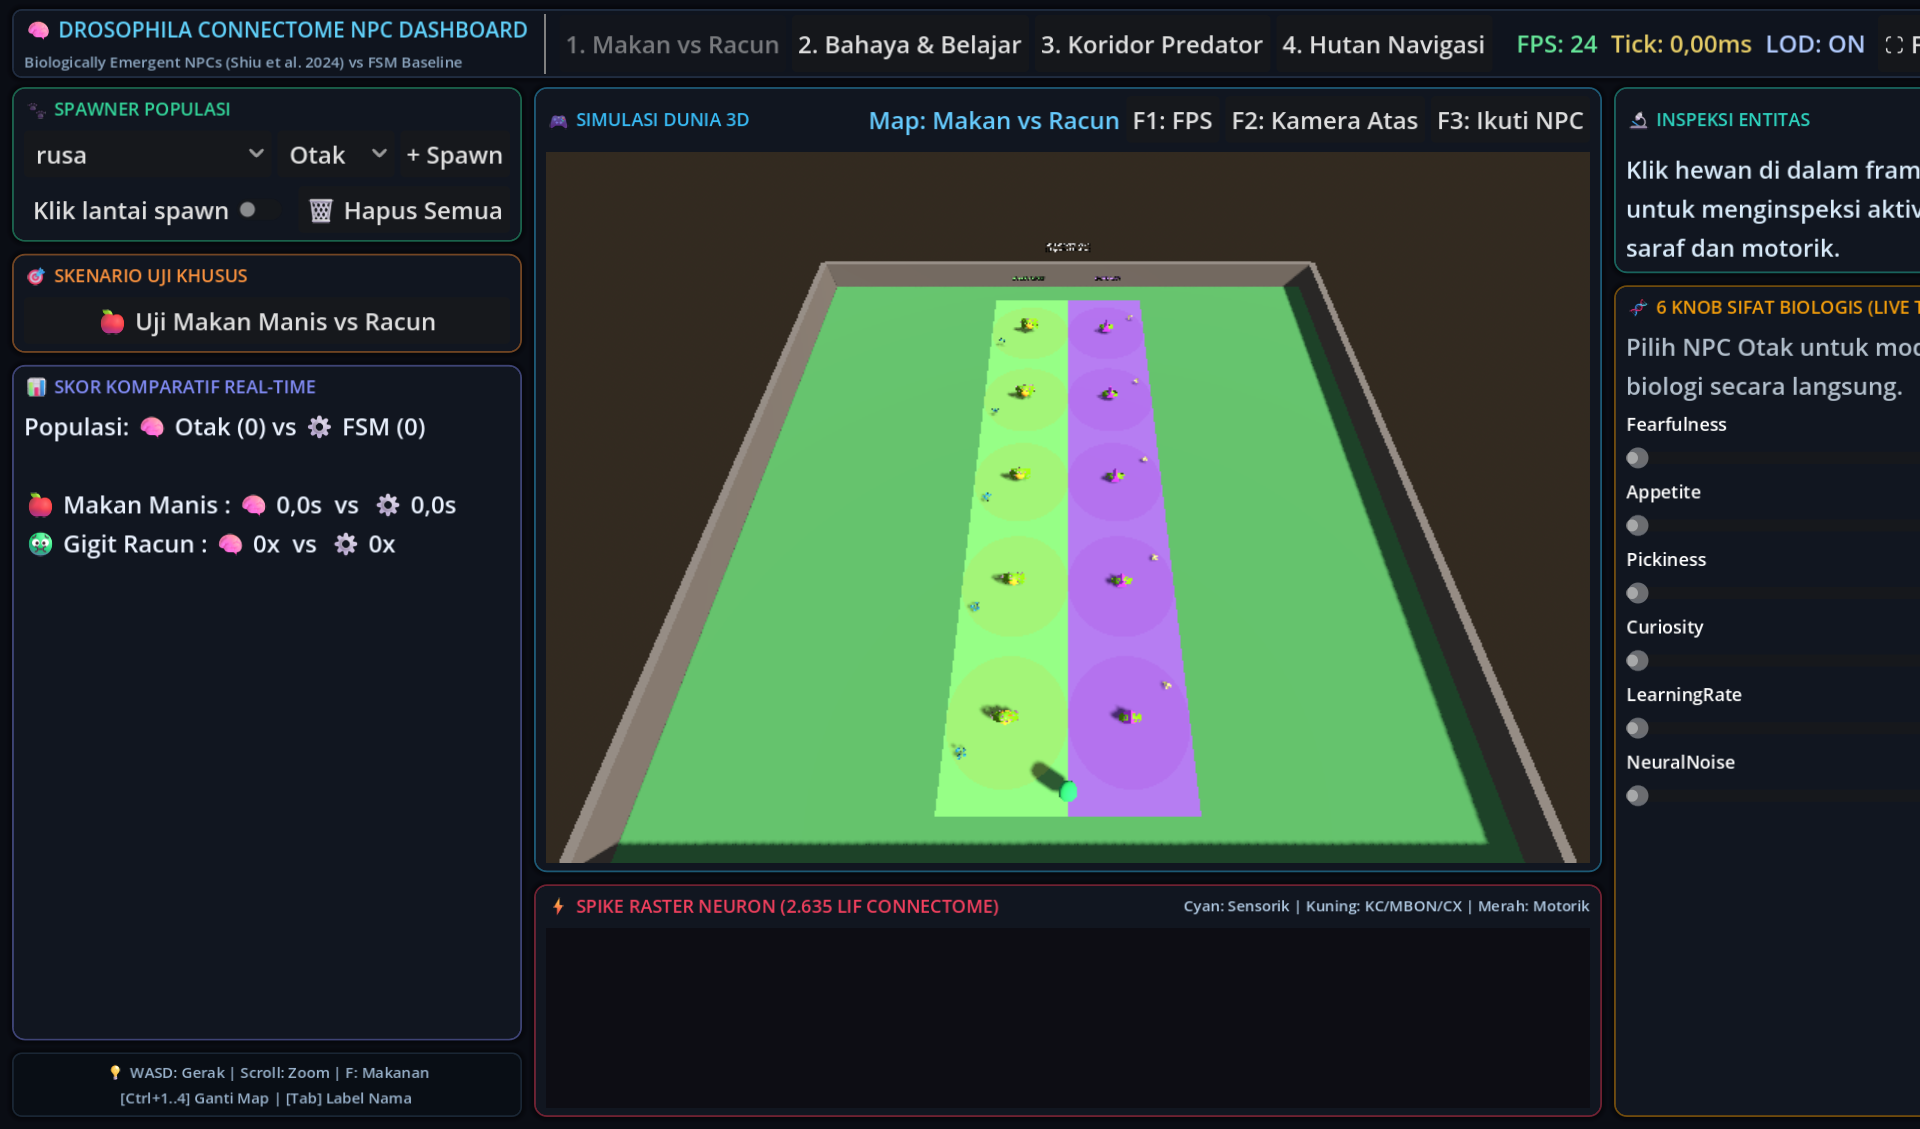
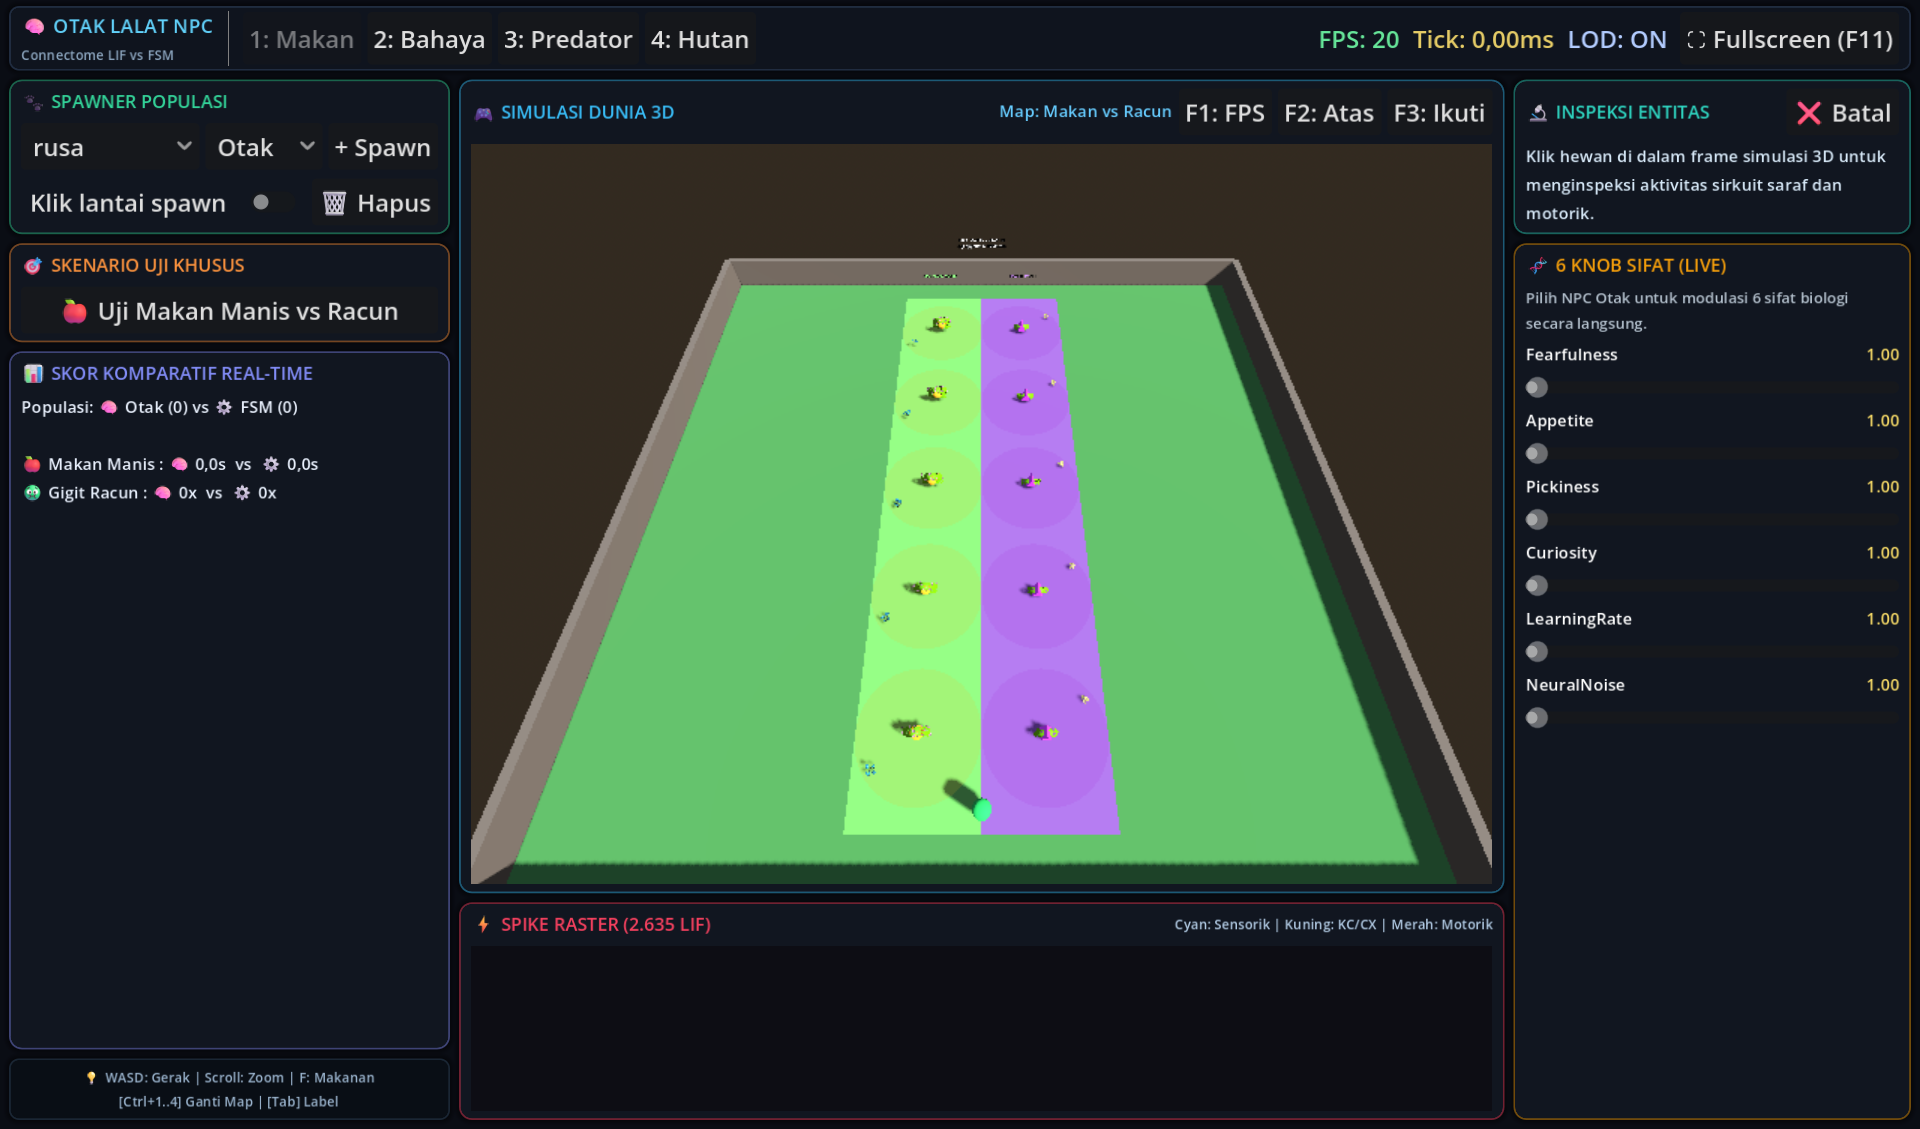
Optimize Bento Grid column widths and padding to eliminate right side cutoff

diff --git a/scripts/UI/Dashboard.cs b/scripts/UI/Dashboard.cs
@@ -53,25 +53,28 @@ public partial class Dashboard : Control
 
         var margin = new MarginContainer();
         margin.SetAnchorsPreset(LayoutPreset.FullRect);
-        margin.AddThemeConstantOverride("margin_left", 8);
-        margin.AddThemeConstantOverride("margin_top", 6);
-        margin.AddThemeConstantOverride("margin_right", 8);
-        margin.AddThemeConstantOverride("margin_bottom", 8);
+        margin.AddThemeConstantOverride("margin_left", 6);
+        margin.AddThemeConstantOverride("margin_top", 4);
+        margin.AddThemeConstantOverride("margin_right", 6);
+        margin.AddThemeConstantOverride("margin_bottom", 6);
         AddChild(margin);
 
         var rootBox = new VBoxContainer();
         rootBox.AddThemeConstantOverride("separation", 6);
+        rootBox.SizeFlagsHorizontal = SizeFlags.ExpandFill;
+        rootBox.SizeFlagsVertical = SizeFlags.ExpandFill;
         margin.AddChild(rootBox);
 
         // 2. Baris Header / Top Bar (Map Switcher & Engine Stats)
         BuildTopBar(rootBox);
 
-        // 3. Grid Utama (3 Kolom Bento: Kiri [300px], Tengah [Flex/Expand], Kanan [340px])
+        // 3. Grid Utama (3 Kolom Bento: Kiri [245px], Tengah [Flex/Expand], Kanan [265px])
         var mainGrid = new HBoxContainer
         {
+            SizeFlagsHorizontal = SizeFlags.ExpandFill,
             SizeFlagsVertical = SizeFlags.ExpandFill,
         };
-        mainGrid.AddThemeConstantOverride("separation", 8);
+        mainGrid.AddThemeConstantOverride("separation", 6);
         rootBox.AddChild(mainGrid);
 
         // Kolom Kiri: Spawner, Skenario Uji, & Skor Komparatif
@@ -115,12 +118,12 @@ public partial class Dashboard : Control
 
         // Judul Aplikasi
         var titleBox = new VBoxContainer();
-        var titleLbl = new Label { Text = "🧠 DROSOPHILA CONNECTOME NPC DASHBOARD" };
+        var titleLbl = new Label { Text = "🧠 OTAK LALAT NPC" };
         titleLbl.AddThemeColorOverride("font_color", new Color(0.38f, 0.82f, 0.98f));
-        titleLbl.AddThemeFontSizeOverride("font_size", 14);
-        var subTitle = new Label { Text = "Biologically Emergent NPCs (Shiu et al. 2024) vs FSM Baseline" };
+        titleLbl.AddThemeFontSizeOverride("font_size", 13);
+        var subTitle = new Label { Text = "Connectome LIF vs FSM" };
         subTitle.AddThemeColorOverride("font_color", new Color(0.55f, 0.65f, 0.75f));
-        subTitle.AddThemeFontSizeOverride("font_size", 10);
+        subTitle.AddThemeFontSizeOverride("font_size", 9);
         titleBox.AddChild(titleLbl);
         titleBox.AddChild(subTitle);
         topRow.AddChild(titleBox);
@@ -134,10 +137,17 @@ public partial class Dashboard : Control
         for (int i = 0; i < MapRegistry.Maps.Length; i++)
         {
             int idx = i;
-            var (title, _) = MapRegistry.Maps[i];
+            string shortTitle = i switch
+            {
+                0 => "Makan",
+                1 => "Bahaya",
+                2 => "Predator",
+                3 => "Hutan",
+                _ => MapRegistry.Maps[i].Title
+            };
             var btn = new Button
             {
-                Text = $"{i + 1}. {title}",
+                Text = $"{i + 1}: {shortTitle}",
                 FocusMode = FocusModeEnum.None,
             };
             btn.Pressed += () => SwitchMap(idx);
@@ -177,10 +187,10 @@ public partial class Dashboard : Control
     {
         var col = new VBoxContainer
         {
-            CustomMinimumSize = new Vector2(290, 0),
+            CustomMinimumSize = new Vector2(245, 0),
             SizeFlagsVertical = SizeFlags.ExpandFill,
         };
-        col.AddThemeConstantOverride("separation", 8);
+        col.AddThemeConstantOverride("separation", 6);
 
         // Card 1: 🐾 Spawner Populasi
         var cardSpawn = CreateBentoCard("🐾 SPAWNER POPULASI", new Color(0.20f, 0.83f, 0.60f), out var spawnBox);
@@ -201,7 +211,7 @@ public partial class Dashboard : Control
         clickSpawnCheck = new CheckButton { Text = "Klik lantai spawn", FocusMode = FocusModeEnum.None, SizeFlagsHorizontal = SizeFlags.ExpandFill };
         clickSpawnCheck.Toggled += on => clickSpawn = on;
         row2.AddChild(clickSpawnCheck);
-        var clearBtn = new Button { Text = "🗑 Hapus Semua", FocusMode = FocusModeEnum.None };
+        var clearBtn = new Button { Text = "🗑 Hapus", FocusMode = FocusModeEnum.None };
         clearBtn.Pressed += () => { Select(null); currentMap?.ClearNpcs(); };
         row2.AddChild(clearBtn);
         spawnBox.AddChild(row2);
@@ -215,6 +225,7 @@ public partial class Dashboard : Control
         var cardStats = CreateBentoCard("📊 SKOR KOMPARATIF REAL-TIME", new Color(0.51f, 0.55f, 0.97f), out var statsBox);
         cardStats.SizeFlagsVertical = SizeFlags.ExpandFill;
         statsLabel = new Label();
+        statsLabel.AddThemeFontSizeOverride("font_size", 11);
         statsLabel.AddThemeColorOverride("font_color", new Color(0.92f, 0.95f, 1f));
         statsBox.AddChild(statsLabel);
         col.AddChild(cardStats);
@@ -224,10 +235,10 @@ public partial class Dashboard : Control
         helpPill.AddThemeStyleboxOverride("panel", CreateCardStyle(new Color(0.2f, 0.3f, 0.4f, 0.4f), new Color(0.04f, 0.06f, 0.09f, 0.8f), 6));
         var helpLbl = new Label
         {
-            Text = "💡 WASD: Gerak | Scroll: Zoom | F: Makanan\n[Ctrl+1..4] Ganti Map | [Tab] Label Nama",
+            Text = "💡 WASD: Gerak | Scroll: Zoom | F: Makanan\n[Ctrl+1..4] Ganti Map | [Tab] Label",
             HorizontalAlignment = HorizontalAlignment.Center,
         };
-        helpLbl.AddThemeFontSizeOverride("font_size", 10);
+        helpLbl.AddThemeFontSizeOverride("font_size", 9);
         helpLbl.AddThemeColorOverride("font_color", new Color(0.6f, 0.7f, 0.8f));
         helpPill.AddChild(helpLbl);
         col.AddChild(helpPill);
@@ -244,21 +255,21 @@ public partial class Dashboard : Control
         {
             SizeFlagsHorizontal = SizeFlags.ExpandFill,
             SizeFlagsVertical = SizeFlags.ExpandFill,
-            SizeFlagsStretchRatio = 2.4f,
         };
-        col.AddThemeConstantOverride("separation", 8);
+        col.AddThemeConstantOverride("separation", 6);
 
         // Header Viewport 3D
         var camBar = new HBoxContainer();
         mapTitleLabel = new Label { Text = "Map: Memuat...", SizeFlagsHorizontal = SizeFlags.ExpandFill };
         mapTitleLabel.AddThemeColorOverride("font_color", new Color(0.4f, 0.8f, 1f));
+        mapTitleLabel.AddThemeFontSizeOverride("font_size", 11);
         camBar.AddChild(mapTitleLabel);
 
         var btnFps = new Button { Text = "F1: FPS", FocusMode = FocusModeEnum.None };
         btnFps.Pressed += () => currentMap?.PlayerNode?.SetCameraMode(Player.CamMode.FirstPerson);
-        var btnTop = new Button { Text = "F2: Kamera Atas", FocusMode = FocusModeEnum.None };
+        var btnTop = new Button { Text = "F2: Atas", FocusMode = FocusModeEnum.None };
         btnTop.Pressed += () => currentMap?.PlayerNode?.SetCameraMode(Player.CamMode.TopDown);
-        var btnFol = new Button { Text = "F3: Ikuti NPC", FocusMode = FocusModeEnum.None };
+        var btnFol = new Button { Text = "F3: Ikuti", FocusMode = FocusModeEnum.None };
         btnFol.Pressed += () =>
         {
             if (selected == null) Select(NpcBase.All.OfType<BrainNpc>().FirstOrDefault() ?? NpcBase.All.FirstOrDefault());
@@ -271,15 +282,15 @@ public partial class Dashboard : Control
         // Card 4: 🎮 Viewport Simulasi 3D (SubViewportContainer Frame)
         var cardVp = CreateBentoCard("🎮 SIMULASI DUNIA 3D", new Color(0.22f, 0.74f, 0.97f), out var vpBox, camBar);
         cardVp.SizeFlagsVertical = SizeFlags.ExpandFill;
-        cardVp.SizeFlagsStretchRatio = 3.0f;
-        cardVp.CustomMinimumSize = new Vector2(0, 380);
+        cardVp.SizeFlagsStretchRatio = 2.5f;
+        cardVp.CustomMinimumSize = new Vector2(0, 340);
 
         viewportContainer = new SubViewportContainer
         {
             Stretch = true,
             SizeFlagsHorizontal = SizeFlags.ExpandFill,
             SizeFlagsVertical = SizeFlags.ExpandFill,
-            CustomMinimumSize = new Vector2(0, 360),
+            CustomMinimumSize = new Vector2(0, 310),
         };
         subViewport = new SubViewport
         {
@@ -294,12 +305,12 @@ public partial class Dashboard : Control
         col.AddChild(cardVp);
 
         // Card 5: ⚡ Spike Raster Neuron (2.635 LIF)
-        var legendLbl = new Label { Text = "Cyan: Sensorik | Kuning: KC/MBON/CX | Merah: Motorik" };
-        legendLbl.AddThemeFontSizeOverride("font_size", 10);
+        var legendLbl = new Label { Text = "Cyan: Sensorik | Kuning: KC/CX | Merah: Motorik" };
+        legendLbl.AddThemeFontSizeOverride("font_size", 9);
         legendLbl.AddThemeColorOverride("font_color", new Color(0.7f, 0.8f, 0.9f));
-        var cardRaster = CreateBentoCard("⚡ SPIKE RASTER NEURON (2.635 LIF CONNECTOME)", new Color(0.96f, 0.25f, 0.37f), out var rasterBox, legendLbl);
-        cardRaster.CustomMinimumSize = new Vector2(0, 150);
-        raster = new SpikeRaster { CustomMinimumSize = new Vector2(0, 120), SizeFlagsVertical = SizeFlags.ExpandFill };
+        var cardRaster = CreateBentoCard("⚡ SPIKE RASTER (2.635 LIF)", new Color(0.96f, 0.25f, 0.37f), out var rasterBox, legendLbl);
+        cardRaster.CustomMinimumSize = new Vector2(0, 140);
+        raster = new SpikeRaster { CustomMinimumSize = new Vector2(0, 110), SizeFlagsVertical = SizeFlags.ExpandFill };
         rasterBox.AddChild(raster);
         col.AddChild(cardRaster);
 
@@ -313,10 +324,10 @@ public partial class Dashboard : Control
     {
         var col = new VBoxContainer
         {
-            CustomMinimumSize = new Vector2(330, 0),
+            CustomMinimumSize = new Vector2(265, 0),
             SizeFlagsVertical = SizeFlags.ExpandFill,
         };
-        col.AddThemeConstantOverride("separation", 8);
+        col.AddThemeConstantOverride("separation", 6);
 
         // Card 6: 🔬 Inspeksi Entitas Terpilih
         var deselectBtn = new Button { Text = "❌ Batal", FocusMode = FocusModeEnum.None };
@@ -327,12 +338,13 @@ public partial class Dashboard : Control
             Text = "Klik hewan di dalam frame simulasi 3D untuk menginspeksi aktivitas sirkuit saraf dan motorik.",
             AutowrapMode = TextServer.AutowrapMode.WordSmart,
         };
+        inspectLabel.AddThemeFontSizeOverride("font_size", 11);
         inspectLabel.AddThemeColorOverride("font_color", new Color(0.85f, 0.92f, 0.98f));
         inspectBox.AddChild(inspectLabel);
         col.AddChild(cardInspect);
 
         // Card 7: 🧬 6 Knob Sifat Biologis (Live Modulasi)
-        var cardTraits = CreateBentoCard("🧬 6 KNOB SIFAT BIOLOGIS (LIVE TUNING)", new Color(0.96f, 0.62f, 0.04f), out var traitBox);
+        var cardTraits = CreateBentoCard("🧬 6 KNOB SIFAT (LIVE)", new Color(0.96f, 0.62f, 0.04f), out var traitBox);
         cardTraits.SizeFlagsVertical = SizeFlags.ExpandFill;
 
         noticeTraitsLabel = new Label
@@ -340,6 +352,7 @@ public partial class Dashboard : Control
             Text = "Pilih NPC Otak untuk modulasi 6 sifat biologi secara langsung.",
             AutowrapMode = TextServer.AutowrapMode.WordSmart,
         };
+        noticeTraitsLabel.AddThemeFontSizeOverride("font_size", 10);
         noticeTraitsLabel.AddThemeColorOverride("font_color", new Color(0.7f, 0.75f, 0.8f));
         traitBox.AddChild(noticeTraitsLabel);
 
@@ -348,10 +361,10 @@ public partial class Dashboard : Control
             int k = i;
             var row = new HBoxContainer();
             var nameLbl = new Label { Text = TraitNames[i], SizeFlagsHorizontal = SizeFlags.ExpandFill };
-            nameLbl.AddThemeFontSizeOverride("font_size", 12);
+            nameLbl.AddThemeFontSizeOverride("font_size", 11);
             var valLbl = new Label { Text = "1.00" };
             valLbl.AddThemeColorOverride("font_color", new Color(0.96f, 0.85f, 0.4f));
-            valLbl.AddThemeFontSizeOverride("font_size", 12);
+            valLbl.AddThemeFontSizeOverride("font_size", 11);
             row.AddChild(nameLbl);
             row.AddChild(valLbl);
             sliderValLabels.Add(valLbl);
@@ -362,7 +375,7 @@ public partial class Dashboard : Control
                 MinValue = 0,
                 MaxValue = 2,
                 Step = 0.05,
-                CustomMinimumSize = new Vector2(0, 16),
+                CustomMinimumSize = new Vector2(0, 14),
                 Editable = false,
             };
             s.ValueChanged += v =>

diff --git a/PROGRESS.md b/PROGRESS.md
@@ -121,10 +121,11 @@ Aturan proyek: [`AGENTS.md`](AGENTS.md). Rencana: [`PLAN.md`](PLAN.md). Dokumen 
   2. Membuat [`scripts/UI/Dashboard.cs`](scripts/UI/Dashboard.cs) dan [`scenes/Dashboard.tscn`](scenes/Dashboard.tscn) sebagai scene utama baru (`run/main_scene="res://scenes/Dashboard.tscn"` di `project.godot`).
   3. Memperbarui [`scripts/World/MapBase.cs`](scripts/World/MapBase.cs) dengan properti `SuppressOverlay` agar map dapat dimuat secara dinamis ke dalam SubViewport frame Dashboard tanpa menduplikasi overlay.
   4. Mendukung ganti map 1-klik di header bar tanpa me-reload aplikasi, interaksi raycast seleksi NPC dan klik lantai spawn di dalam frame 3D, serta shortcut `F12` untuk mengambil tangkapan layar langsung ke `reports/screenshots/bento_dashboard.png`.
+  5. Menyesuaikan lebar kolom Bento Grid (Kiri: 245px, Tengah: Flex Expand, Kanan: 265px) dan teks tombol map/judul top bar agar seluruh elemen pas 100% pada resolusi layar tanpa terpotong di sisi kanan.
 - **Verifikasi**:
   - `dotnet build otakLalat-npc.csproj -c Debug` -> 0 Warning(s), 0 Error(s).
   - `dotnet test tests/BrainTests -c Release` -> Passed 9/9 (0 Failed).
-  - GUI runtime test: tangkapan layar `reports/screenshots/bento_dashboard.png` terverifikasi merender frame 3D dan kartu-kartu Bento secara presisi.
+  - GUI runtime test: tangkapan layar `reports/screenshots/bento_dashboard.png` terverifikasi 100% utuh tanpa potongan di sisi kanan layar.
 - **Tugas Berikutnya**:
   - Pengujian langsung UI oleh pengguna via `JALANKAN_GAME.bat`.
   - Eksekusi benchmark headless final (`tools/analysis/run_benchmarks.py`) dan pembuatan grafik data bab 4 (`tools/analysis/analyze_bench.py`).
